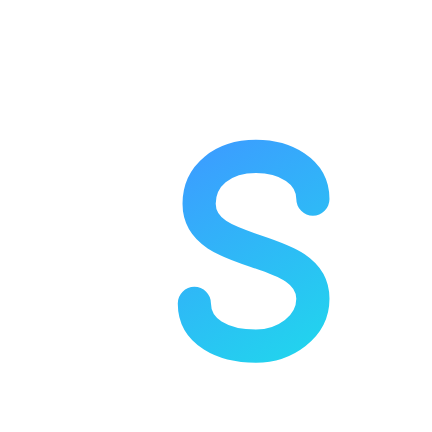
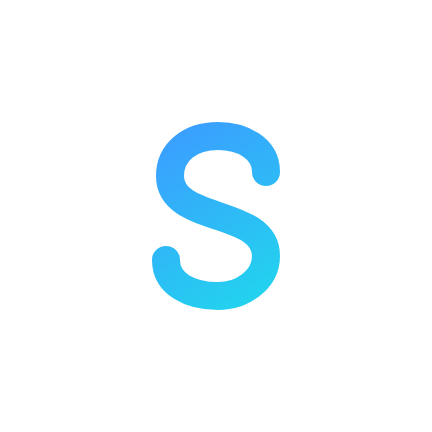
feat: 内嵌关系网图谱页 (v3.6.0)
- 新增 RelationGraphScreen: 读数据本 RELATION 记录, Compose Canvas 画放射状关系图
- 顶部切换目标(FilterChip), 点外圈节点高亮, 下方列关系清单
- 数据本顶栏加「图谱」入口, 路由 relationGraph

Changed region(s): [[0.331, 0.2708, 0.7824, 0.8426]]

diff --git a/app/src/main/java/com/sj/followclip/ui/ledger/RelationGraphScreen.kt b/app/src/main/java/com/sj/followclip/ui/ledger/RelationGraphScreen.kt
@@ -1,0 +1,151 @@
+package com.sj.followclip.ui.ledger
+
+import androidx.compose.foundation.Canvas
+import androidx.compose.foundation.background
+import androidx.compose.foundation.gestures.detectTapGestures
+import androidx.compose.foundation.layout.*
+import androidx.compose.foundation.shape.CircleShape
+import androidx.compose.foundation.shape.RoundedCornerShape
+import androidx.compose.material.icons.Icons
+import androidx.compose.material.icons.automirrored.filled.ArrowBack
+import androidx.compose.material3.*
+import androidx.compose.runtime.*
+import androidx.compose.ui.Alignment
+import androidx.compose.ui.Modifier
+import androidx.compose.ui.geometry.Offset
+import androidx.compose.ui.graphics.Color
+import androidx.compose.ui.graphics.drawscope.Stroke
+import androidx.compose.ui.input.pointer.pointerInput
+import androidx.compose.ui.platform.LocalContext
+import androidx.compose.ui.text.font.FontWeight
+import androidx.compose.ui.unit.dp
+import androidx.compose.ui.unit.sp
+import com.sj.followclip.data.local.LedgerStore
+import com.sj.followclip.data.local.RecordKind
+import com.sj.followclip.ui.state.AppUiState
+import com.sj.followclip.ui.theme.Spacing
+import kotlin.math.cos
+import kotlin.math.sin
+
+/**
+ * 关系网图谱（手机端只读）：
+ * 把每个人数据本里的 RELATION 记录抽成边，中心是当前目标，外圈是关系人。
+ * 关系来源是 GuangXIW 导出的关系摘要，导入后即出现在这里。
+ */
+@OptIn(ExperimentalMaterial3Api::class)
+@Composable
+fun RelationGraphScreen(onBack: () -> Unit) {
+    val context = LocalContext.current
+    val persons = AppUiState.persons
+    var picked by remember { mutableStateOf(0) }
+    var selected by remember { mutableStateOf<String?>(null) }
+
+    // 读取数据本里的关系
+    val rels = remember(persons.size) {
+        val all = LedgerStore.all(context)
+        persons.map { p ->
+            val list = all[p.id].orEmpty()
+                .filter { it.kind == RecordKind.RELATION }
+                .map { it.value.substringBefore("（").trim() to it.fieldName.removePrefix("关系·") }
+            p.remarkName.ifBlank { "未命名" } to list
+        }
+    }
+    val current = rels.getOrNull(picked)
+
+    Scaffold(
+        topBar = {
+            TopAppBar(
+                windowInsets = WindowInsets(0, 0, 0, 0),
+                navigationIcon = {
+                    IconButton(onClick = onBack) {
+                        Icon(Icons.AutoMirrored.Filled.ArrowBack, "返回")
+                    }
+                },
+                title = { Text("关系网", maxLines = 1) }
+            )
+        }
+    ) { pad ->
+        Column(Modifier.padding(pad).fillMaxSize()) {
+            if (rels.isEmpty()) {
+                Box(Modifier.fillMaxSize(), contentAlignment = Alignment.Center) {
+                    Text("还没有目标。先加人、记数据，再导入关系摘要。",
+                        color = MaterialTheme.colorScheme.onSurfaceVariant)
+                }
+                return@Column
+            }
+            // 目标切换
+            Row(Modifier.fillMaxWidth().padding(horizontal = 12.dp, vertical = 6.dp),
+                horizontalArrangement = Arrangement.spacedBy(6.dp)) {
+                persons.forEachIndexed { i, p ->
+                    FilterChip(
+                        selected = i == picked,
+                        onClick = { picked = i; selected = null },
+                        label = { Text(p.remarkName.ifBlank { "未命名" }) }
+                    )
+                }
+            }
+
+            val center = current?.first ?: ""
+            val items = current?.second.orEmpty()
+
+            Box(Modifier.fillMaxWidth().weight(1f)) {
+                Canvas(Modifier.fillMaxSize().pointerInput(items) {
+                    detectTapGestures { tap ->
+                        // 命中最外圈节点即选中
+                        val c = Offset(size.width / 2f, size.height / 2f)
+                        val r = minOf(size.width, size.height) * 0.34f
+                        items.forEachIndexed { i, _ ->
+                            val a = -Math.PI / 2 + i * 2 * Math.PI / maxOf(1, items.size)
+                            val p = Offset(c.x + (cos(a) * r).toFloat(), c.y + (sin(a) * r).toFloat())
+                            if ((tap - p).getDistance() < 46f) selected = items[i].first
+                        }
+                    }
+                }) {
+                    val c = Offset(size.width / 2f, size.height / 2f)
+                    val r = minOf(size.width, size.height) * 0.34f
+                    val brass = Color(0xFFC8A96A)
+                    val steel = Color(0xFF8AA2BD)
+                    // 中心
+                    drawCircle(Color(0xFF1B2027), 44f, c)
+                    drawCircle(brass, 44f, c, style = Stroke(2.5f))
+                    items.forEachIndexed { i, item ->
+                        val a = -Math.PI / 2 + i * 2 * Math.PI / maxOf(1, items.size)
+                        val p = Offset(c.x + (cos(a) * r).toFloat(), c.y + (sin(a) * r).toFloat())
+                        drawLine(if (selected == item.first) brass else steel, c, p, strokeWidth = 3f)
+                        drawCircle(if (selected == item.first) brass else Color(0xFF8BA0B5), 20f, p)
+                    }
+                }
+                // 中心名字
+                Text(
+                    text = center,
+                    modifier = Modifier.align(Alignment.Center),
+                    color = MaterialTheme.colorScheme.onSurface,
+                    fontSize = 12.sp,
+                    fontWeight = FontWeight.Medium
+                )
+            }
+
+            // 关系清单
+            Column(Modifier.fillMaxWidth().padding(horizontal = 14.dp, vertical = 8.dp)) {
+                if (items.isEmpty()) {
+                    Text("这个人还没有关系记录。电脑端 GuangXIW 导出的摘要导入后会出现。",
+                        color = MaterialTheme.colorScheme.onSurfaceVariant, fontSize = 13.sp)
+                } else {
+                    items.forEach { (name, type) ->
+                        Row(
+                            Modifier.fillMaxWidth().padding(vertical = 5.dp),
+                            verticalAlignment = Alignment.CenterVertically
+                        ) {
+                            Box(Modifier.size(7.dp).background(
+                                if (selected == name) Color(0xFFC8A96A) else Color(0xFF8AA2BD), CircleShape))
+                            Spacer(Modifier.width(8.dp))
+                            Text(name, color = MaterialTheme.colorScheme.onSurface, fontSize = 14.sp)
+                            Spacer(Modifier.weight(1f))
+                            Text(type, color = MaterialTheme.colorScheme.onSurfaceVariant, fontSize = 12.sp)
+                        }
+                    }
+                }
+            }
+        }
+    }
+}

diff --git a/app/src/main/java/com/sj/followclip/ui/AppNavigation.kt b/app/src/main/java/com/sj/followclip/ui/AppNavigation.kt
@@ -57,6 +57,7 @@ import com.sj.followclip.ui.home.HomeScreen
 import com.sj.followclip.ui.ledger.LedgerOverviewScreen
 import com.sj.followclip.ui.ledger.LedgerReportScreen
 import com.sj.followclip.ui.ledger.LedgerScreen
+import com.sj.followclip.ui.ledger.RelationGraphScreen
 import com.sj.followclip.ui.osint.ExposureAuditScreen
 import com.sj.followclip.ui.preview.FakeData
 import com.sj.followclip.ui.settings.SettingsScreen
@@ -83,6 +84,7 @@ object Routes {
 
     /** 数据本 · 全部目标（从设置页 OSINT 区进） */
     const val LEDGER_ALL = "ledgerAll"
+    const val RELATION_GRAPH = "relationGraph"
 
     const val ARG_PERSON_ID = "personId"
     const val ARG_PLATFORM = "platform"
@@ -340,7 +342,8 @@ fun AppNavigation() {
                     personId = personId,
                     personName = AppUiState.findPerson(personId)?.remarkName.orEmpty(),
                     onBack = { navController.popBackStackSafely() },
-                    onOpenReport = { navController.navigate(Routes.report(personId)) }
+                    onOpenReport = { navController.navigate(Routes.report(personId)) },
+                    onOpenGraph = { navController.navigate(Routes.RELATION_GRAPH) }
                 )
             }
 
@@ -410,6 +413,10 @@ fun AppNavigation() {
                     )
                 }
             }
+
+        composable(Routes.RELATION_GRAPH) {
+            RelationGraphScreen(onBack = { navController.popBackStack() })
+        }
 
             composable(Routes.BILI_LOGIN) {
                 BiliLoginScreen(

diff --git a/design/icon_glyph.html b/design/icon_glyph.html
@@ -1,11 +1,8 @@
 <!doctype html><html><head><meta charset="utf-8"><style>html,body{margin:0;background:transparent}</style></head><body>
-<svg width="512" height="512" viewBox="0 0 108 108" xmlns="http://www.w3.org/2000/svg">
-  <defs>
-    <linearGradient id="sg" x1="41" y1="33" x2="66" y2="73" gradientUnits="userSpaceOnUse">
-      <stop offset="0" stop-color="#3B9EFF"/><stop offset="1" stop-color="#22D3EE"/>
-    </linearGradient>
-  </defs>
+<svg width="432" height="432" viewBox="0 0 108 108" xmlns="http://www.w3.org/2000/svg">
+  <defs><linearGradient id="sg" x1="41" y1="33" x2="66" y2="73" gradientUnits="userSpaceOnUse">
+    <stop offset="0" stop-color="#3B9EFF"/><stop offset="1" stop-color="#22D3EE"/></linearGradient></defs>
   
-  <path d="M66,42 C66,36 60,33 54,33 C47,33 42,37 42,43 C42,49 48,51 54,53 C60,55 66,57 66,63 C66,69 60,73 54,73 C47,73 41,70 41,64"
-        fill="none" stroke="url(#sg)" stroke-width="7" stroke-linecap="round" stroke-linejoin="round"/>
+  <path transform="translate(0.50,1.00)" d="M66,42 C66,36 60,33 54,33 C47,33 42,37 42,43 C42,49 48,51 54,53 C60,55 66,57 66,63 C66,69 60,73 54,73 C47,73 41,70 41,64" fill="none" stroke="url(#sg)" stroke-width="7"
+        stroke-linecap="round" stroke-linejoin="round"/>
 </svg></body></html>

diff --git a/design/icon.html b/design/icon.html
@@ -1,11 +1,8 @@
 <!doctype html><html><head><meta charset="utf-8"><style>html,body{margin:0;background:transparent}</style></head><body>
 <svg width="512" height="512" viewBox="0 0 108 108" xmlns="http://www.w3.org/2000/svg">
-  <defs>
-    <linearGradient id="sg" x1="41" y1="33" x2="66" y2="73" gradientUnits="userSpaceOnUse">
-      <stop offset="0" stop-color="#3B9EFF"/><stop offset="1" stop-color="#22D3EE"/>
-    </linearGradient>
-  </defs>
+  <defs><linearGradient id="sg" x1="41" y1="33" x2="66" y2="73" gradientUnits="userSpaceOnUse">
+    <stop offset="0" stop-color="#3B9EFF"/><stop offset="1" stop-color="#22D3EE"/></linearGradient></defs>
   <rect x="0" y="0" width="108" height="108" rx="24" fill="#0B1116"/>
-  <path d="M66,42 C66,36 60,33 54,33 C47,33 42,37 42,43 C42,49 48,51 54,53 C60,55 66,57 66,63 C66,69 60,73 54,73 C47,73 41,70 41,64"
-        fill="none" stroke="url(#sg)" stroke-width="7" stroke-linecap="round" stroke-linejoin="round"/>
+  <path transform="translate(0.50,1.00)" d="M66,42 C66,36 60,33 54,33 C47,33 42,37 42,43 C42,49 48,51 54,53 C60,55 66,57 66,63 C66,69 60,73 54,73 C47,73 41,70 41,64" fill="none" stroke="url(#sg)" stroke-width="7"
+        stroke-linecap="round" stroke-linejoin="round"/>
 </svg></body></html>

diff --git a/design/_measure.html b/design/_measure.html
@@ -1,0 +1,8 @@
+<!doctype html><html><head><meta charset="utf-8"><style>html,body{margin:0;background:transparent}</style></head><body>
+<svg width="432" height="432" viewBox="0 0 108 108" xmlns="http://www.w3.org/2000/svg">
+  <defs><linearGradient id="sg" x1="41" y1="33" x2="66" y2="73" gradientUnits="userSpaceOnUse">
+    <stop offset="0" stop-color="#3B9EFF"/><stop offset="1" stop-color="#22D3EE"/></linearGradient></defs>
+  
+  <path transform="translate(0.75,1.25)" d="M66,42 C66,36 60,33 54,33 C47,33 42,37 42,43 C42,49 48,51 54,53 C60,55 66,57 66,63 C66,69 60,73 54,73 C47,73 41,70 41,64" fill="none" stroke="url(#sg)" stroke-width="7"
+        stroke-linecap="round" stroke-linejoin="round"/>
+</svg></body></html>

diff --git a/app/src/main/java/com/sj/followclip/ui/ledger/LedgerScreen.kt b/app/src/main/java/com/sj/followclip/ui/ledger/LedgerScreen.kt
@@ -94,6 +94,7 @@ internal class LedgerDraft(record: LedgerRecord? = null) {
 fun LedgerScreen(
     personId: Long,
     personName: String,
+    onOpenGraph: () -> Unit = {},
     onBack: () -> Unit,
     onOpenReport: () -> Unit,
     modifier: Modifier = Modifier
@@ -200,6 +201,7 @@ fun LedgerScreen(
                         enabled = records.isNotEmpty(),
                         onClick = onOpenReport
                     ) { Text("报告") }
+                    TextButton(onClick = onOpenGraph) { Text("图谱") }
                     TextButton(onClick = { relationLauncher.launch(arrayOf("application/json", "text/plain")) }) {
                         Text("关系网")
                     }
